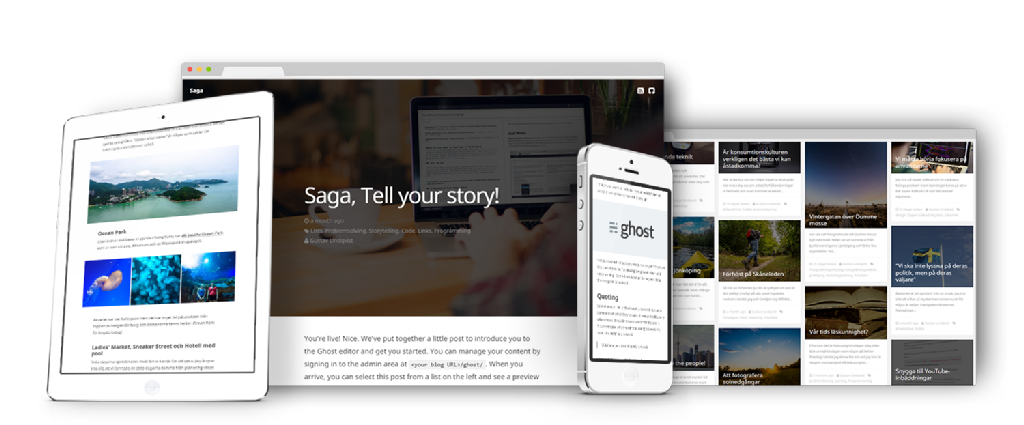
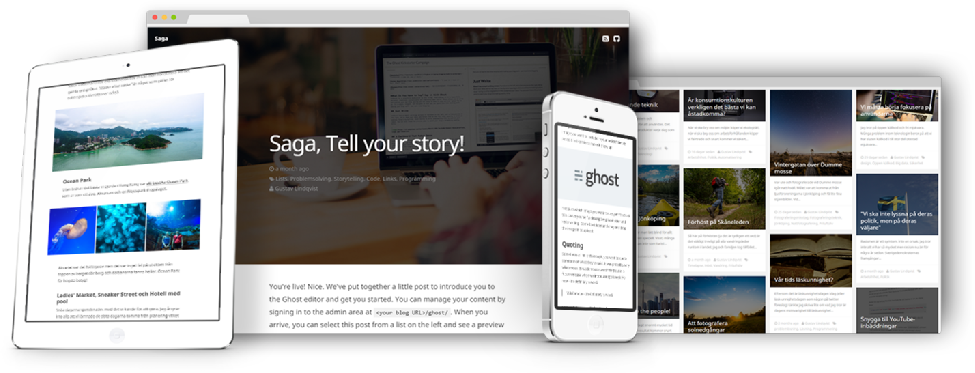
Added responsivity to projects

diff --git a/css/style.css b/css/style.css
@@ -1,1 +1,1 @@
-@import url(http://fonts.googleapis.com/css?family=Ubuntu:400,500,700,400italic);@import url(http://fonts.googleapis.com/css?family=Ubuntu+Mono:400,700);html,body,div,span,applet,object,iframe,h1,h2,h3,h4,h5,h6,p,blockquote,pre,a,abbr,acronym,address,big,cite,code,del,dfn,em,img,ins,kbd,q,s,samp,small,strike,strong,sub,sup,tt,var,b,u,i,center,dl,dt,dd,ol,ul,li,fieldset,form,label,legend,table,caption,tbody,tfoot,thead,tr,th,td,article,aside,canvas,details,embed,figure,figcaption,footer,header,hgroup,menu,nav,output,ruby,section,summary,time,mark,audio,video{margin:0;padding:0;border:0;font:inherit;font-size:100%;vertical-align:baseline}html{line-height:1}ol,ul{list-style:none}table{border-collapse:collapse;border-spacing:0}caption,th,td{text-align:left;font-weight:normal;vertical-align:middle}q,blockquote{quotes:none}q:before,q:after,blockquote:before,blockquote:after{content:"";content:none}a img{border:none}article,aside,details,figcaption,figure,footer,header,hgroup,main,menu,nav,section,summary{display:block}html,body,div,span,applet,object,iframe,h1,h2,h3,h4,h5,h6,p,blockquote,pre,a,abbr,acronym,address,big,cite,code,del,dfn,em,img,ins,kbd,q,s,samp,small,strike,strong,sub,sup,tt,var,b,u,i,center,dl,dt,dd,ol,ul,li,fieldset,form,label,legend,table,caption,tbody,tfoot,thead,tr,th,td,article,aside,canvas,details,embed,figure,figcaption,footer,header,hgroup,menu,nav,output,ruby,section,summary,time,mark,audio,video{margin:0;padding:0;border:0;font:inherit;font-size:100%;vertical-align:baseline}html{line-height:1}ol,ul{list-style:none}table{border-collapse:collapse;border-spacing:0}caption,th,td{text-align:left;font-weight:normal;vertical-align:middle}q,blockquote{quotes:none}q:before,q:after,blockquote:before,blockquote:after{content:"";content:none}a img{border:none}article,aside,details,figcaption,figure,footer,header,hgroup,main,menu,nav,section,summary{display:block}.flex{display:-webkit-box;display:-moz-box;display:-ms-flexbox;display:-webkit-flex;display:flex}.row{-webkit-box-direction:normal;-webkit-box-orient:horizontal;-webkit-flex-direction:row;-moz-flex-direction:row;-ms-flex-direction:row;flex-direction:row}.column{-webkit-box-direction:normal;-webkit-box-orient:vertical;-webkit-flex-direction:column;-moz-flex-direction:column;-ms-flex-direction:column;flex-direction:column}.weight-1{-webkit-box-flex:1;-moz-box-flex:1;-webkit-flex:1;-ms-flex:1;flex:1}.align-right{text-align:right}.align-left{text-align:left}bold{font-weight:bold}html{height:100%;max-height:100%;font-size:62.5%;line-height:1.4;font-family:"Ubuntu",Helvetica,"Helvetica Neue",Arial,sans-serif}body{font-size:14px;font-size:1.4rem;overflow:hidden}*{-moz-box-sizing:border-box;-webkit-box-sizing:border-box;box-sizing:border-box}@media screen and (max-width: 600px){html{font-size:50%}}.section{padding-top:60px;padding-bottom:60px;color:#00071a}.section a{color:#7A87A8;text-decoration:none}.section a:hover{text-decoration:underline}.section.dark{background:#01164c;color:white}.container{width:100%;max-width:800px;margin-left:auto;margin-right:auto;padding-left:30px;padding-right:30px}.header{background:url("../img/wallpaper.jpg");background-size:cover;background-position:center;overflow:hidden}.header a{color:white;text-decoration:none}.header a:hover{color:#7A87A8}.header .section{padding-top:100px;padding-bottom:100px;color:white}.header .section.dark{background:rgba(0,16,34,0.3);padding-top:40px;padding-bottom:40px}.header .title,.header .sub-title{display:block;text-align:center}.header .title{font-weight:bold}.header .contact-info:not(:last-child){padding-right:40px}.title,.sub-title{font-family:"Ubuntu",Helvetica,"Helvetica Neue",Arial,sans-serif;margin-bottom:0.5em}h1{font-size:40px;font-size:4rem}h2{font-size:32px;font-size:3.2rem}h3{font-size:24px;font-size:2.4rem}.sub-title{font-size:21px;font-size:2.1rem;color:#7A87A8}em{font-style:italic}.experience{display:table;font-size:16px;font-size:1.6rem}.experience .experience-item{display:table-row}.experience .experience-item .date{display:table-cell;font-family:"Ubuntu Mono",Consolas,"Droid Sans Mono","Courier New";white-space:nowrap;text-align:right;padding-right:20px}.experience .experience-item .content{display:table-cell;padding-bottom:20px}.experience .experience-item .content .position{font-weight:700}.experience .experience-item .content .position .secondary{font-weight:normal}.experience .experience-item .content .location{font-family:"Ubuntu Mono",Consolas,"Droid Sans Mono","Courier New"}.experience .experience-item .content .location a{color:white;text-decoration:none}.experience .experience-item .content .location a:hover{text-decoration:underline}.experience .experience-item .content .description{color:#7A87A8}.experience .experience-item .content .description a{color:#7A87A8;text-decoration:underline}.experience .experience-item .content .description a:hover{color:white}.projects{display:-webkit-box;display:-moz-box;display:-ms-flexbox;display:-webkit-flex;display:flex;-webkit-box-direction:normal;-webkit-box-orient:vertical;-webkit-flex-direction:column;-moz-flex-direction:column;-ms-flex-direction:column;flex-direction:column;width:110%}.projects .project-item{display:-webkit-box;display:-moz-box;display:-ms-flexbox;display:-webkit-flex;display:flex;-webkit-box-direction:normal;-webkit-box-orient:horizontal;-webkit-flex-direction:row;-moz-flex-direction:row;-ms-flex-direction:row;flex-direction:row;margin-bottom:20px}.projects .project-item:last-child{margin-bottom:0}.projects .project-item .content{padding-right:20px;flex:1}.projects .project-item .image{width:35%}.projects .project-item .image img{width:100%;height:auto}.terminal{display:block;position:relative;max-width:800px;width:95%;height:270px;margin-left:auto;margin-right:auto;background:rgba(0,16,34,0.9);font-family:"Ubuntu Mono",Consolas,"Droid Sans Mono","Courier New";font-weight:bold;font-size:16px;font-size:1.6rem;padding:25px 30px;color:white;border-top:20px solid #7A87A8;border-top-left-radius:5px;border-top-right-radius:5px}.terminal #writing span{display:none}.terminal a{color:white;text-decoration:none}.terminal a:hover{color:white;text-decoration:underline}.terminal .comment{color:#7A87A8}.terminal #contact-info{display:none}.terminal #last{display:none}.animated.blinking{-moz-animation:1s blinking step-end infinite;-webkit-animation:1s blinking step-end infinite;animation:1s blinking step-end infinite}@-moz-keyframes blinking{from,to{visibility:hidden}50%{visibility:visible}}@-webkit-keyframes blinking{from,to{visibility:hidden}50%{visibility:visible}}@keyframes blinking{from,to{visibility:hidden}50%{visibility:visible}}.desktop-icons{display:-webkit-box;display:-moz-box;display:-ms-flexbox;display:-webkit-flex;display:flex;-webkit-flex-wrap:wrap;-moz-flex-wrap:wrap;-ms-flex-wrap:wrap;flex-wrap:wrap;-webkit-box-direction:normal;-webkit-box-orient:horizontal;-webkit-flex-direction:row;-moz-flex-direction:row;-ms-flex-direction:row;flex-direction:row;position:absolute;width:400px;max-width:80%;top:50px;left:40px;opacity:0.1}.desktop-icons .desktop-icon{width:100px;margin-bottom:25px}.desktop-icons .desktop-icon img{display:block;width:60px;height:auto;margin-left:auto;margin-right:auto}.desktop-icons .desktop-icon p{margin-top:5px;color:white;text-align:center}
+@import url(http://fonts.googleapis.com/css?family=Ubuntu:400,500,700,400italic);@import url(http://fonts.googleapis.com/css?family=Ubuntu+Mono:400,700);html,body,div,span,applet,object,iframe,h1,h2,h3,h4,h5,h6,p,blockquote,pre,a,abbr,acronym,address,big,cite,code,del,dfn,em,img,ins,kbd,q,s,samp,small,strike,strong,sub,sup,tt,var,b,u,i,center,dl,dt,dd,ol,ul,li,fieldset,form,label,legend,table,caption,tbody,tfoot,thead,tr,th,td,article,aside,canvas,details,embed,figure,figcaption,footer,header,hgroup,menu,nav,output,ruby,section,summary,time,mark,audio,video{margin:0;padding:0;border:0;font:inherit;font-size:100%;vertical-align:baseline}html{line-height:1}ol,ul{list-style:none}table{border-collapse:collapse;border-spacing:0}caption,th,td{text-align:left;font-weight:normal;vertical-align:middle}q,blockquote{quotes:none}q:before,q:after,blockquote:before,blockquote:after{content:"";content:none}a img{border:none}article,aside,details,figcaption,figure,footer,header,hgroup,main,menu,nav,section,summary{display:block}html,body,div,span,applet,object,iframe,h1,h2,h3,h4,h5,h6,p,blockquote,pre,a,abbr,acronym,address,big,cite,code,del,dfn,em,img,ins,kbd,q,s,samp,small,strike,strong,sub,sup,tt,var,b,u,i,center,dl,dt,dd,ol,ul,li,fieldset,form,label,legend,table,caption,tbody,tfoot,thead,tr,th,td,article,aside,canvas,details,embed,figure,figcaption,footer,header,hgroup,menu,nav,output,ruby,section,summary,time,mark,audio,video{margin:0;padding:0;border:0;font:inherit;font-size:100%;vertical-align:baseline}html{line-height:1}ol,ul{list-style:none}table{border-collapse:collapse;border-spacing:0}caption,th,td{text-align:left;font-weight:normal;vertical-align:middle}q,blockquote{quotes:none}q:before,q:after,blockquote:before,blockquote:after{content:"";content:none}a img{border:none}article,aside,details,figcaption,figure,footer,header,hgroup,main,menu,nav,section,summary{display:block}.flex{display:-webkit-box;display:-moz-box;display:-ms-flexbox;display:-webkit-flex;display:flex}.row{-webkit-box-direction:normal;-webkit-box-orient:horizontal;-webkit-flex-direction:row;-moz-flex-direction:row;-ms-flex-direction:row;flex-direction:row}.column{-webkit-box-direction:normal;-webkit-box-orient:vertical;-webkit-flex-direction:column;-moz-flex-direction:column;-ms-flex-direction:column;flex-direction:column}.weight-1{-webkit-box-flex:1;-moz-box-flex:1;-webkit-flex:1;-ms-flex:1;flex:1}.align-right{text-align:right}.align-left{text-align:left}bold{font-weight:bold}html{height:100%;max-height:100%;font-size:62.5%;line-height:1.4;font-family:"Ubuntu",Helvetica,"Helvetica Neue",Arial,sans-serif}body{font-size:14px;font-size:1.4rem;overflow:scroll-y}*{-moz-box-sizing:border-box;-webkit-box-sizing:border-box;box-sizing:border-box}@media screen and (max-width: 600px){html{font-size:50%}}.section{padding-top:60px;padding-bottom:60px;color:#00071a}.section a{color:#7A87A8;text-decoration:none}.section a:hover{text-decoration:underline}.section.dark{background:#01164c;color:white}.container{width:100%;max-width:800px;margin-left:auto;margin-right:auto;padding-left:30px;padding-right:30px}.header{background:url("../img/wallpaper.jpg");background-size:cover;background-position:center;overflow:hidden}.header a{color:white;text-decoration:none}.header a:hover{color:#7A87A8}.header .section{padding-top:100px;padding-bottom:100px;color:white}.header .section.dark{background:rgba(0,16,34,0.3);padding-top:40px;padding-bottom:40px}.header .title,.header .sub-title{display:block;text-align:center}.header .title{font-weight:bold}.header .contact-info:not(:last-child){padding-right:40px}.title,.sub-title{font-family:"Ubuntu",Helvetica,"Helvetica Neue",Arial,sans-serif;margin-bottom:0.5em}h1{font-size:40px;font-size:4rem}h2{font-size:32px;font-size:3.2rem}h3{font-size:24px;font-size:2.4rem}.sub-title{font-size:21px;font-size:2.1rem;color:#7A87A8}em{font-style:italic}.experience{display:table;font-size:16px;font-size:1.6rem}.experience .experience-item{display:table-row}.experience .experience-item .date{display:table-cell;font-family:"Ubuntu Mono",Consolas,"Droid Sans Mono","Courier New";white-space:nowrap;text-align:right;padding-right:20px}.experience .experience-item .content{display:table-cell;padding-bottom:20px}.experience .experience-item .content .position{font-weight:700}.experience .experience-item .content .position .secondary{font-weight:normal}.experience .experience-item .content .location{font-family:"Ubuntu Mono",Consolas,"Droid Sans Mono","Courier New"}.experience .experience-item .content .location a{color:white;text-decoration:none}.experience .experience-item .content .location a:hover{text-decoration:underline}.experience .experience-item .content .description{color:#7A87A8}.experience .experience-item .content .description a{color:#7A87A8;text-decoration:underline}.experience .experience-item .content .description a:hover{color:white}.projects{display:-webkit-box;display:-moz-box;display:-ms-flexbox;display:-webkit-flex;display:flex;-webkit-box-direction:normal;-webkit-box-orient:vertical;-webkit-flex-direction:column;-moz-flex-direction:column;-ms-flex-direction:column;flex-direction:column}.projects .project-item{display:-webkit-box;display:-moz-box;display:-ms-flexbox;display:-webkit-flex;display:flex;-webkit-box-direction:normal;-webkit-box-orient:horizontal;-webkit-flex-direction:row;-moz-flex-direction:row;-ms-flex-direction:row;flex-direction:row;margin-bottom:20px}.projects .project-item:last-child{margin-bottom:0}.projects .project-item .content{padding-right:20px;flex:1}.projects .project-item .image{width:35%}.projects .project-item .image img{width:100%;height:auto}@media screen and (max-width: 700px){.projects .project-item{-webkit-box-direction:normal;-webkit-box-orient:vertical;-webkit-flex-direction:column;-moz-flex-direction:column;-ms-flex-direction:column;flex-direction:column;margin-bottom:40px}.projects .project-item .image{width:100%;margin-top:10px}}.terminal{display:block;position:relative;max-width:800px;width:95%;height:270px;margin-left:auto;margin-right:auto;background:rgba(0,16,34,0.9);font-family:"Ubuntu Mono",Consolas,"Droid Sans Mono","Courier New";font-weight:bold;font-size:16px;font-size:1.6rem;padding:25px 30px;color:white;border-top:20px solid #7A87A8;border-top-left-radius:5px;border-top-right-radius:5px}.terminal #writing span{display:none}.terminal a{color:white;text-decoration:none}.terminal a:hover{color:white;text-decoration:underline}.terminal .comment{color:#7A87A8}.terminal #contact-info{display:none}.terminal #last{display:none}.animated.blinking{-moz-animation:1s blinking step-end infinite;-webkit-animation:1s blinking step-end infinite;animation:1s blinking step-end infinite}@-moz-keyframes blinking{from,to{visibility:hidden}50%{visibility:visible}}@-webkit-keyframes blinking{from,to{visibility:hidden}50%{visibility:visible}}@keyframes blinking{from,to{visibility:hidden}50%{visibility:visible}}.desktop-icons{display:-webkit-box;display:-moz-box;display:-ms-flexbox;display:-webkit-flex;display:flex;-webkit-flex-wrap:wrap;-moz-flex-wrap:wrap;-ms-flex-wrap:wrap;flex-wrap:wrap;-webkit-box-direction:normal;-webkit-box-orient:horizontal;-webkit-flex-direction:row;-moz-flex-direction:row;-ms-flex-direction:row;flex-direction:row;position:absolute;width:400px;max-width:80%;top:50px;left:40px;opacity:0.1}.desktop-icons .desktop-icon{width:100px;margin-bottom:25px}.desktop-icons .desktop-icon img{display:block;width:60px;height:auto;margin-left:auto;margin-right:auto}.desktop-icons .desktop-icon p{margin-top:5px;color:white;text-align:center}

diff --git a/sass/components/_projects.scss b/sass/components/_projects.scss
@@ -1,7 +1,6 @@
 .projects {
     @include flexbox();
     @include flex-direction(column);
-    width: 110%;
     .project-item {
         @include flexbox();
         @include flex-direction(row);
@@ -29,6 +28,19 @@
             img {
                 width: 100%;
                 height: auto;
+            }
+        }
+    }
+}
+
+@media screen and (max-width: 700px){
+    .projects {
+        .project-item {
+            @include flex-direction(column);
+            margin-bottom: 40px;
+            .image {
+                width: 100%;
+                margin-top: 10px;
             }
         }
     }

diff --git a/sass/layout/_base.scss b/sass/layout/_base.scss
@@ -8,7 +8,7 @@ html {
 
 body {
     @include font-size(14);
-    overflow: hidden
+    overflow: scroll-y;
 }
 
 * {
